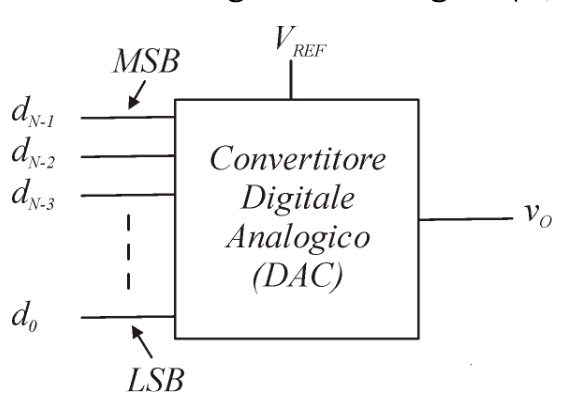
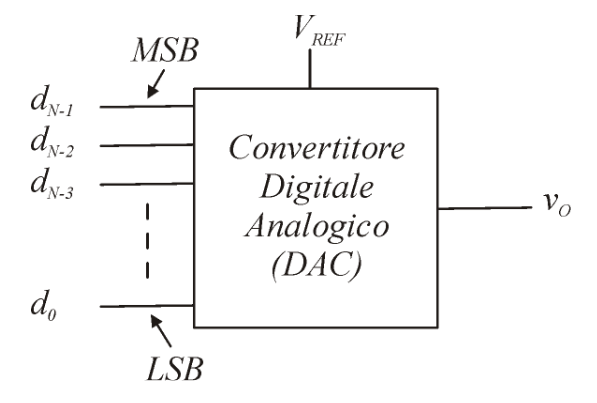
Lezione 2026-05-28 in classe

diff --git a/Convertitori.md b/Convertitori.md
@@ -11,6 +11,9 @@ title: Convertitori
 		- [2.1.2. DAC con Rete a Scala R-2R](#212-dac-con-rete-a-scala-r-2r)
 	- [2.2. Convertitore Analogico-Digitale - `ADC`](#22-convertitore-analogico-digitale---adc)
 		- [2.2.1. Convertitore Flash](#221-convertitore-flash)
+		- [2.2.2. Convertitore a Singola Rampa](#222-convertitore-a-singola-rampa)
+		- [2.2.3. Convertitore a Doppia Rampa](#223-convertitore-a-doppia-rampa)
+		- [2.2.4. Convertitore ad Approssimazioni Successive - `SAR`](#224-convertitore-ad-approssimazioni-successive---sar)
 
 # 2. Convertitori
 
@@ -33,7 +36,7 @@ $$
 
 </div>
 <div class="">
-<img class="80" src="./images/converter/dac/scheme.png">
+<img class="50" src="./images/converter/dac/scheme.png">
 </div>
 </div>
 
@@ -52,7 +55,7 @@ $$
 
 La caratteristica di ingresso/uscita è costituita da **_un insieme di punti_**:
 
-<img class="" src="./images/converter/dac/graph.png">
+<img class="20" src="./images/converter/dac/graph.png">
 
 Esistono diversi modi per costruire un convertitore _D/A_, noi ne vediamo due:
 - **Resistori a Pesi Binari**
@@ -64,7 +67,7 @@ Esistono diversi modi per costruire un convertitore _D/A_, noi ne vediamo due:
 <div class="">
 
 Il `DAC` con **Resistori a Pesi Binari** è composto da due parti principali:
-- **Deviatori**: sono una coppia di switch comandati da segnali complementati. Sono rappresentati in dettaglio in basso a sinistra. L'$i$-esimo deviatore è collegato alla tensione $V_{REF}$ da una resistenza di valore $2^(N-i-1)R$. 
+- **Deviatori**: sono una coppia di switch comandati da segnali complementati. Sono rappresentati in dettaglio in basso a sinistra. L'$i$-esimo deviatore è collegato alla tensione $V_{REF}$ da una resistenza di valore $2^(N-i-1)R$.
 - **Amplificatore di transimpedenza**: è un _amplificatore operazionale invertente_, che amplifica la tensione in ingresso mantenendo però costante la corrente.
 
 </div>
@@ -111,10 +114,11 @@ Questo tipo di convertitore quindi non scala bene all'aumentare dei bit sui qual
 
 ### 2.1.2. DAC con Rete a Scala R-2R
 
+Questo circuito è molto simile a quello precedente, ma invece di collegare l'$i$-esimo deviatore con una resistenza $2^{N-i-1}R$, sfrutta una **scala R-2R**.
+
 <div class="grid2">
 <div class="">
 
-Questo circuito è molto simile a quello precedente, ma invece di collegare l'$i$-esimo deviatore con una resistenza $2^{N-i-1}R$, sfrutta una **scala R-2R**.
 
 In particolare tutti i deviatori sono collegati ad una resistenza $2R$, e queste sono collegate:
 - Il `LSB` con ground è connessa da una resistenza $2R$
@@ -138,7 +142,7 @@ $$
 
 </div>
 <div class="">
-<img class="80" src="./images/converter/dac/r-2r-ladder.png">
+<img class="90" src="./images/converter/dac/r-2r-ladder.png">
 </div>
 </div>
 
@@ -179,7 +183,7 @@ Per fare ciò la tensione di ingresso è mappata in $2^N$ intervalli, idealmente
 
 </div>
 <div class="">
-<img class="80" src="./images/converter/adc/scheme.png">
+<img class="60" src="./images/converter/adc/scheme.png">
 </div>
 </div>
 
@@ -212,7 +216,7 @@ Per fare ciò, un metodo pratico è l'impiego di una **stringa di resistenze**.
 
 </div>
 <div class="">
-<img class="80" src="./images/converter/adc/flash/res-string.png">
+<img class="50" src="./images/converter/adc/flash/res-string.png">
 </div>
 </div>
 
@@ -220,8 +224,8 @@ In termini di _hardware_, se vogliamo convertire su $N$ bit necessitiamo di:
 - $2^N$ Resistenze
 - $(2^N - 1)$ Comparatori
 
-<figure class="">
-<img class="100" src="./images/converter/adc/flash/scheme.png">
+<figure class="40">
+<img class="80" src="./images/converter/adc/flash/scheme.png">
 <figcaption>
 
 La resistenza $\frac{R}{2}$ è necessaria per effettuare la **traslazione** della caratteristica di $\frac{1}{2}V_{LSB}$
@@ -236,5 +240,131 @@ Se determiniamo che la lunghezza di ciascuna porzione dia $\frac{N}{2}$ bit, per
 
 Un esempio di _Folded Flash_ a 8 bit è il seguente:
 
-<img class="" src="./images/converter/adc/flash/folded-flash.png">
+<img class="40" src="./images/converter/adc/flash/folded-flash.png">
 
+### 2.2.2. Convertitore a Singola Rampa
+
+<div class="grid2">
+<div class="">
+
+Il **Convertitore A Singola Rampa** effettua conversione utilizzando **_un solo comparatore_**.
+
+Per riuscire a fare ciò però necessità di un **tempo di buffering**. A differenza del _convertitore flash_, qeusto convertitore necessita di:
+- Un **clock** (segnale di temporizzazione) stabile
+- Un **contatore digitale**
+
+
+Sulla destra possiamo vedere lo schema circuitale del convertitore.
+
+La tensione in ingresso viene salvata temporaneamente in un _latch_ (identificato dal blocco _Sample-and-Hold_) e mandata in ingresso ad un amplificatore operazionale come riferimento del **comparatore**.
+
+La tensione da comparare invece viene recuperata da un _integratore di Miller_, composto da un amplificatore operazionale mandato in retroazione **_con un condensatore_**.
+
+L'uscita del comparatore viene mandata in input all'interno di una logica di controllo che lo propaga:
+- _Al contatore_: ad ogni clock ha aumentato il proprio valore di `1`. All'arrivo del segnale dalla logica di controllo reseta il contatore
+- _Al latch_: campiona l'uscita del contatore prima che questo venga resettato. Il valore che contiene **rappresenta la codifica della tensione**
+
+</div>
+<div class="">
+<img class="90" src="./images/converter/adc/counter/single-ramp.png">
+</div>
+</div>
+
+
+La tensione ai capi del condensatore vale nel tempo:
+$$
+	V_c = -\frac{1}{RC} \int_{0}^{t_c}{-V_{REF}\;d\tau} = \frac{V_{REF}}{RC}t_c
+$$
+
+L'istante $t_c$ è l'istante nel quale la tensione ai capi del condensatore è **uguale alla tensione di ingresso**:
+$$
+	t_c = \frac{RC}{V_{REF}} \cdot V_{IN}
+$$
+
+Anche per il contatore, che si aggiorna ogni $T_{ck}$ secondi, sono passati $t_c$ secondi:
+$$
+	t_c = D \cdot T_{ck}
+$$
+
+La cifra sulla quale siamo arrivati è:
+$$
+	D = \frac{RC}{V_{REF}} \cdot \frac{1}{T_{ck}} \cdot V_{IN}
+$$
+
+Questo circuito però soffre del problema dell'**_incertezza sul valore reale di RC_**.
+
+Se infatti dovessimo cambiare il condensatore o la resistenza, anche con altri componenti nominalmente uguali, l'imprecisione dei componenti rispetto ai loro valori nominali, può provocare _**diverse conversioni della stessa tensione**_.
+
+### 2.2.3. Convertitore a Doppia Rampa
+
+Nel convertitore a dpoppia rampa vengono fatte **due integrazioni**:
+1. La prima parte da $0$ e integra la tensione di ingresso $V_{IN}$ in un periodo di tempo pari al _fondoscala del contatore_ $(2^N$ cicli di clock $)$
+2. Si integra la tensione costante $V_{REF}$ di segno opposto, in un intervallo di tempo necessario per far rotarnare a $0$ l'uscita dell'integratore
+
+<img class="30" src="./images/converter/adc/counter/double-ramp-graph.png">
+
+Il risultato della conversione sarà il conteggio _**eseguito **nella seconda fase**_.
+
+<div class="grid2">
+<div class="">
+
+La prima fase opera esattamente come il convertitore a singola rampa integrando però adesso per un tempo di $2^N$ cicli di clock:
+$$
+	V_c = \frac{\vert V_{IN} \vert }{RC}2^N T_{ck}
+$$
+
+La seconda fase invece scatta quando il contatore setta il comando di _overflow_, che agisce sulla porta tri-state a monte del circuito che campio l'ingresso dalla $V_{IN}$ alla $V_{REF}$.
+
+Questa seconda fase durerà finché la tensione ai capi del condensatore non sarà nulla, ovvero:
+$$
+\begin{align*}
+	\frac{\vert V_{IN} \vert }{RC}2^N T_{ck} - \frac{1}{RC}V_{REF}DT_{ck} &= 0 \\
+	\frac{1}{RC}V_{REF}DT_{ck} &= \frac{\vert V_{IN} \vert }{RC}2^N T_{ck}\\
+	D &= \frac{\vert V_{IN} \vert}{V_{REF}} 2^N\\
+\end{align*}
+$$
+
+</div>
+<div class="">
+<img class="90" src="./images/converter/adc/counter/double-ramp.png">
+</div>
+</div>
+
+Questo circuito quindi _**non dipende**_ dalla resistenza e dal condensatore che utilizziamo.
+
+IL circuito però **è molto lento**, infatti se $\vert V_{IN} \vert = V_{REF}$ sovremo attendere ben $2^N$ cicli di _clock_ prima di poter ottenere la conversione.
+
+### 2.2.4. Convertitore ad Approssimazioni Successive - `SAR`
+
+<div class="grid2">
+<div class="">
+
+Il _**Convertitore ad Approssimazioni Successive**_, detto anche `SAR` (_Successive Approximation Register_), è un convertitore che converte una tensione in un valore digitale **bit per bit**, procedendo tramite confronti binari.
+
+Il circuito, proposto sulla destra, è composto da tre componenti:
+1. **Shift Register $N$ bit**
+2. **SAR**
+3. **Convertitore Digitale-Analogico** `DAC`
+
+</div>
+<div class="">
+<img class="50" src="./images/converter/adc/sar/circuit.png">
+</div>
+</div>
+
+Il funzionamento procede ad _approssimazioni successive_:
+1. Al clock viene inserito il valore $1$ su $b_{N-1}$
+2. La `SAR`, che inizia con $D = 0$, somma il valore ricevuto dallo shift register, impostando $D = 10...00$
+3. Questo valore viene propagato al `DAC` che lo converte in una tensione $V_{DAC}$
+4. La tensione $V_{DAC}$ viene **confrontata con la tensione di ingresso** $V_{IN}$.
+   1. Se $V_{IN} \ge V_{DAC}$ allora abbiamo certezza che $d_{N-1} = 1$, in quanto la tensione rappresenta un numero maggiore o uguale di $2^{N - 1}$
+   2. Se $V_{IN} < V_{DAV}$ allora abbiamo certezza che $d_{N-1} = 0$, in quanto la tensione rappresenta un numero minore di $2^{N - 1}$
+5. Lo _shift-register_ sposta il valore da `100...0` a `010...0`
+6. La `SAR` somma il contenuto del suo registro $D$ con il valore di $B$ ottenendo `110...0` o `100...0` a seconda del primo ciclo
+7. Procede come prima
+
+Questa procedura viene ripetuta $N$ volte, ovvero dura $N$ cicli di clock.
+
+Si ha quindi un ottimizzazione esponenziale rispetto al convertitore a doppia rampa, dovuto proprio al fatto che la ricerca adesso è fatta con ricerca binaria, che ha un tempo logaritmico, a differenza di prima che era lineare.
+
+<img class="30" src="./images/converter/adc/sar/graph.png">
